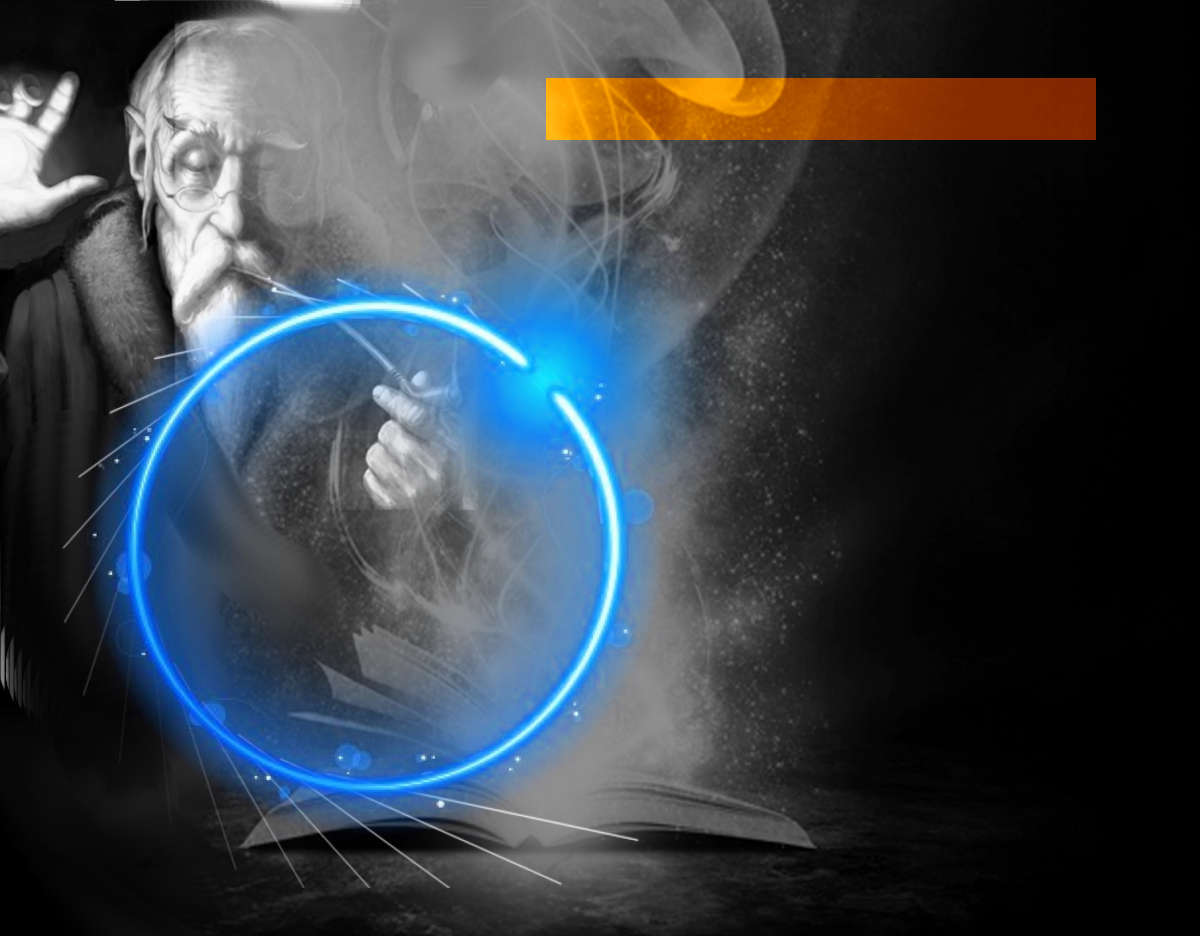
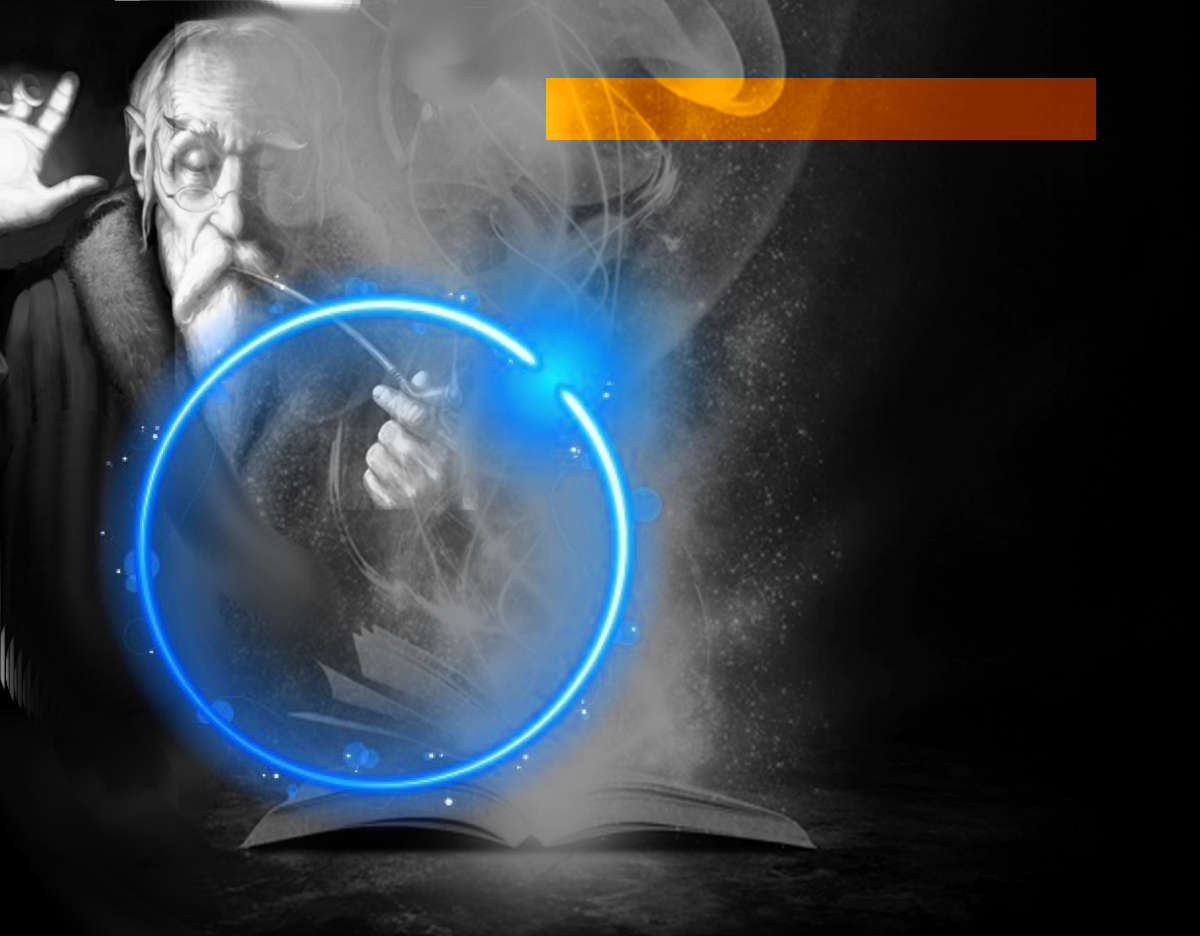
Making changes to allow for any number of elements between 4 and 16

Changed region(s): [[0.0617, 0.2788, 0.555, 0.8985], [0.4625, 0.8675, 0.5242, 0.8985], [0.4008, 0.8985, 0.4317, 0.9295]]

diff --git a/app/assets/javascripts/main.js b/app/assets/javascripts/main.js
@@ -119,7 +119,7 @@ function createFields(alchemy_element_array) {
     var container = $('#alchemy_container');
     var imageObj = new Image();
 
-    for (var i = 0; i < 8; i++) {
+    for (var i = 0; i < gon.count; i++) {
         $('<div/>', {
             'class':'field',
             'html':'<a href="#" title=' + alchemy_element_array[i] + '><img src="/assets/elements/' + alchemy_element_array[i] + '-off.png" class="alchemy_elements" id="' + i + '"/></a>'
@@ -198,7 +198,7 @@ function show_locked(name) {
         clue_select(name);
         $('#actual_content').empty();
         $('#actual_content').append(gon.clue_speak[index]);
-        $('#actual_content').append('<br/><button class="clue_button styled_button" onclick="unlock_clue(\'' + name + '\')">Buy</button> for ' + gon.clue_costs[index] + ' <img class="wallet_icon" src="/assets/' + gon.theme + '.png" alt="">');
+        $('#actual_content').append('<br/><button class="clue_button styled_button" onclick="unlock_clue(\'' + name + '\')">Buy</button> for ' + gon.clue_costs[index] + ' <img class="wallet_icon" src="/assets/' + gon.costs_in + '.png" alt="">');
         $('#content_block').fadeIn('slow');
     }
 }

diff --git a/app/assets/stylesheets/games.css.scss b/app/assets/stylesheets/games.css.scss
@@ -273,6 +273,7 @@ a:active, a:focus {
   border-bottom: solid 3px black;
   border-right: solid 3px black;
   border-top-left-radius: 50px;
+  opacity: 0.8;
 }
 
 #target {

diff --git a/app/controllers/games_controller.rb b/app/controllers/games_controller.rb
@@ -8,14 +8,32 @@ class GamesController < ApplicationController
       @game=Game.find_by_puzzle_id_and_user_id(params[:id], current_user.id)
     end
 
+    @radius_array=[95,95,95,95,95,95,95,95,95,95,95]
     @cluestat=[@game.lore, @game.counter, @game.revelation]
 
     @theme=@game.puzzle.tome.theme
     gon.game_id=@game.id
     gon.theme=@theme
-
+    gon.costs_in = @game.puzzle.manacost? ? 'magic' :'techno'
     gon.elements=@game.puzzle.tome.elements.split(",")
+    gon.count=@game.puzzle.tome.elements.split(",").count
+    gon.radius=@radius_array[@game.puzzle.tome.elements.split(",").count-4]
+
     @clue_cost = t(:"clue_cost_schema.#{@game.puzzle.clue_cost_schema}").split("|")
+    @clue_cost.each_with_index do |c,index|
+      if c=="0"
+        case index
+          when 0
+            @game.lore=true
+          when 1
+            @game.counter=true
+          when 2
+            @game.revelation=true
+        end
+      end
+      @game.save
+    end
+
     if @game.solved?
       @lock_status=["", "", ""]
       gon.clue_costs=[0, 0, 0]
